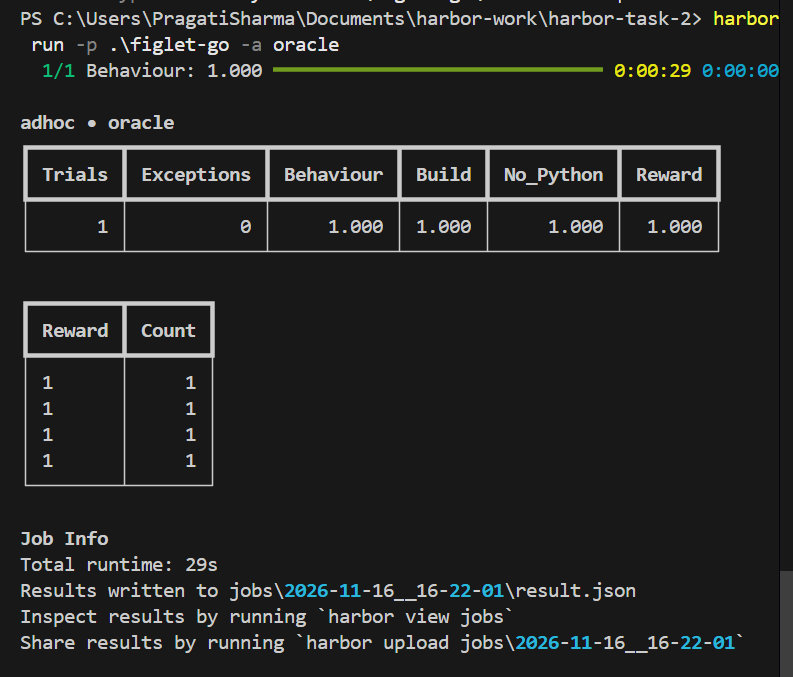
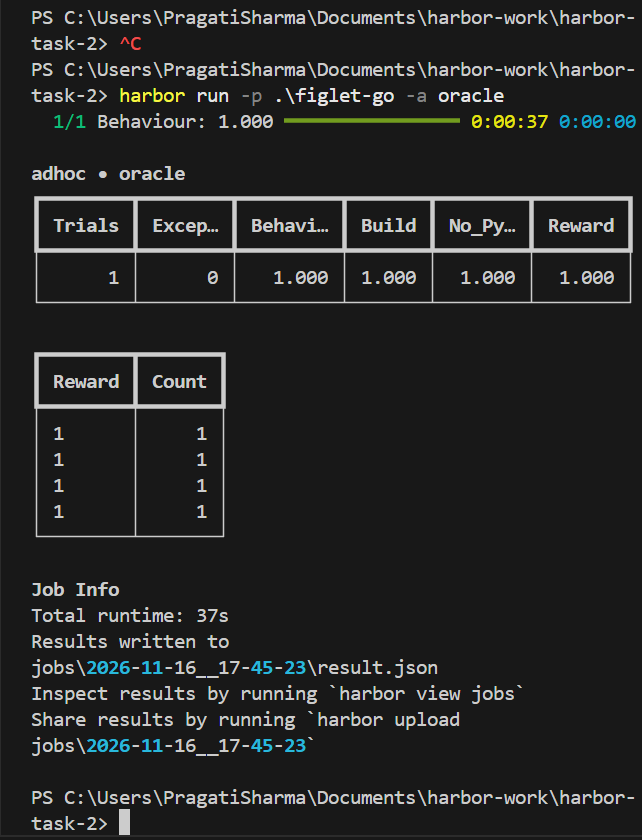
Cover omitted CLI defaults and update verified Harbor results

Changed region(s): [[0.0312, 0.0, 0.9969, 0.3722], [0.0312, 0.4032, 1.0, 1.0]]

diff --git a/PragatiSharma/figlet-go/tests/gen.py b/PragatiSharma/figlet-go/tests/gen.py
@@ -49,12 +49,20 @@ def get_font(font_name: str) -> FigletFont:
 
 
 def parse_candidate_args(args: list[str]) -> tuple[str, int, list[str]]:
-    """Extract font name, width, and positional text arguments from candidate args."""
-    font_name = args[args.index("-f") + 1]
-    width = int(args[args.index("-w") + 1])
+    """Extract font name, width, and positional text arguments from candidate args.
+    Starts with default font 'standard' and default width 80, then applies any explicit options.
+    """
+    font_name = "standard"
+    width = 80
     i = 0
     while i < len(args):
-        if args[i] in ("-f", "-w", "-j", "-D"):
+        if args[i] == "-f" and i + 1 < len(args):
+            font_name = args[i + 1]
+            i += 2
+        elif args[i] == "-w" and i + 1 < len(args):
+            width = int(args[i + 1])
+            i += 2
+        elif args[i] in ("-j", "-D"):
             i += 2
         elif args[i] in ("-r", "-F", "-s", "-n"):
             i += 1
@@ -408,6 +416,34 @@ def run_pyfiglet(args: list[str], pyfiglet_dir: pathlib.Path, timeout_sec: float
     return True, out_str
 
 
+# Reserved cases to cover omitted CLI defaults (5 cases in each dataset)
+RESERVED_VISIBLE_CASES = [
+    # 1. All defaults
+    ["hello"],
+    # 2. Omit only -f (defaults to standard)
+    ["-w", "40", "-j", "left", "-D", "left-to-right", "Map"],
+    # 3. Omit only -w (defaults to 80; long text testing width wrapping)
+    ["-f", "small", "-j", "right", "-D", "left-to-right", "alpha beta gamma delta epsilon zeta eta theta"],
+    # 4. Omit only -j (defaults to auto -> right for right-to-left; asymmetric text)
+    ["-f", "small", "-w", "40", "-D", "right-to-left", "AB"],
+    # 5. Omit only -D (defaults to auto -> left-to-right; asymmetric text)
+    ["-f", "slant", "-w", "60", "-j", "left", "ABC"],
+]
+
+RESERVED_HIDDEN_CASES = [
+    # 1. All defaults (different text)
+    ["world"],
+    # 2. Omit only -f (different text)
+    ["-w", "40", "-j", "left", "-D", "left-to-right", "Code"],
+    # 3. Omit only -w (different long text testing width wrapping)
+    ["-f", "small", "-j", "right", "-D", "left-to-right", "the quick brown fox jumps over the lazy dog"],
+    # 4. Omit only -j (different asymmetric text for right-to-left)
+    ["-f", "small", "-w", "40", "-D", "right-to-left", "XY"],
+    # 5. Omit only -D (different asymmetric text for default direction)
+    ["-f", "slant", "-w", "60", "-j", "left", "XYZ"],
+]
+
+
 def generate_dataset(
     output_path: pathlib.Path,
     target_count: int,
@@ -415,6 +451,7 @@ def generate_dataset(
     seen_args: set,
     pyfiglet_dir: pathlib.Path,
     timeout_sec: float,
+    reserved_cases: list[list[str]] | None = None,
 ) -> int:
     """Generate target_count unique test cases into output_path as JSON Lines."""
     print(f"Starting generation of {target_count} cases for {dataset_name} ({output_path.name})...")
@@ -424,6 +461,29 @@ def generate_dataset(
     start_time = time.time()
 
     with open(output_path, "w", encoding="utf-8") as f:
+        # 1. Write reserved cases covering omitted CLI defaults
+        if reserved_cases:
+            for args in reserved_cases:
+                args_tuple = tuple(args)
+                if args_tuple in seen_args:
+                    continue
+
+                font_name, width, text_args = parse_candidate_args(args)
+                if should_skip_glyph_width(font_name, width, text_args):
+                    continue
+
+                success, result = run_pyfiglet(args, pyfiglet_dir, timeout_sec)
+                if not success:
+                    print(f"Error: Reserved case failed for args: {args}", file=sys.stderr)
+                    sys.exit(1)
+
+                seen_args.add(args_tuple)
+                record = {"args": args, "out": result}
+                f.write(json.dumps(record, ensure_ascii=False) + "\n")
+                f.flush()
+                count += 1
+
+        # 2. Generate remaining cases using seeded random generator
         while count < target_count:
             # Guarantee narrow right-to-left cases are included in both files
             force_narrow_rtl = (count % 5 == 0)
@@ -469,9 +529,24 @@ def main():
         print(f"Error: Original pyfiglet checkout not found at {PYFIGLET_DIR}", file=sys.stderr)
         sys.exit(1)
 
+    print("\nOmission patterns covered in visible set:")
+    print("  1. All defaults:               ", RESERVED_VISIBLE_CASES[0])
+    print("  2. Omit only -f (default font):", RESERVED_VISIBLE_CASES[1])
+    print("  3. Omit only -w (default 80):  ", RESERVED_VISIBLE_CASES[2])
+    print("  4. Omit only -j (default auto):", RESERVED_VISIBLE_CASES[3])
+    print("  5. Omit only -D (default auto):", RESERVED_VISIBLE_CASES[4])
+
+    print("\nOmission patterns covered in hidden set:")
+    print("  1. All defaults:               ", RESERVED_HIDDEN_CASES[0])
+    print("  2. Omit only -f (default font):", RESERVED_HIDDEN_CASES[1])
+    print("  3. Omit only -w (default 80):  ", RESERVED_HIDDEN_CASES[2])
+    print("  4. Omit only -j (default auto):", RESERVED_HIDDEN_CASES[3])
+    print("  5. Omit only -D (default auto):", RESERVED_HIDDEN_CASES[4])
+    print()
+
     seen_args = set()
 
-    # Generate visible.jsonl (2,000 cases)
+    # Generate visible.jsonl (2,000 cases: 5 reserved + 1,995 generated)
     visible_count = generate_dataset(
         output_path=VISIBLE_FILE,
         target_count=TARGET_COUNT_PER_FILE,
@@ -479,9 +554,10 @@ def main():
         seen_args=seen_args,
         pyfiglet_dir=PYFIGLET_DIR,
         timeout_sec=TIMEOUT_PER_CASE,
+        reserved_cases=RESERVED_VISIBLE_CASES,
     )
 
-    # Generate hidden.jsonl (2,000 cases, all unique from visible)
+    # Generate hidden.jsonl (2,000 cases: 5 reserved + 1,995 generated, all unique from visible)
     hidden_count = generate_dataset(
         output_path=HIDDEN_FILE,
         target_count=TARGET_COUNT_PER_FILE,
@@ -489,6 +565,7 @@ def main():
         seen_args=seen_args,
         pyfiglet_dir=PYFIGLET_DIR,
         timeout_sec=TIMEOUT_PER_CASE,
+        reserved_cases=RESERVED_HIDDEN_CASES,
     )
 
     print("\n" + "=" * 50)
